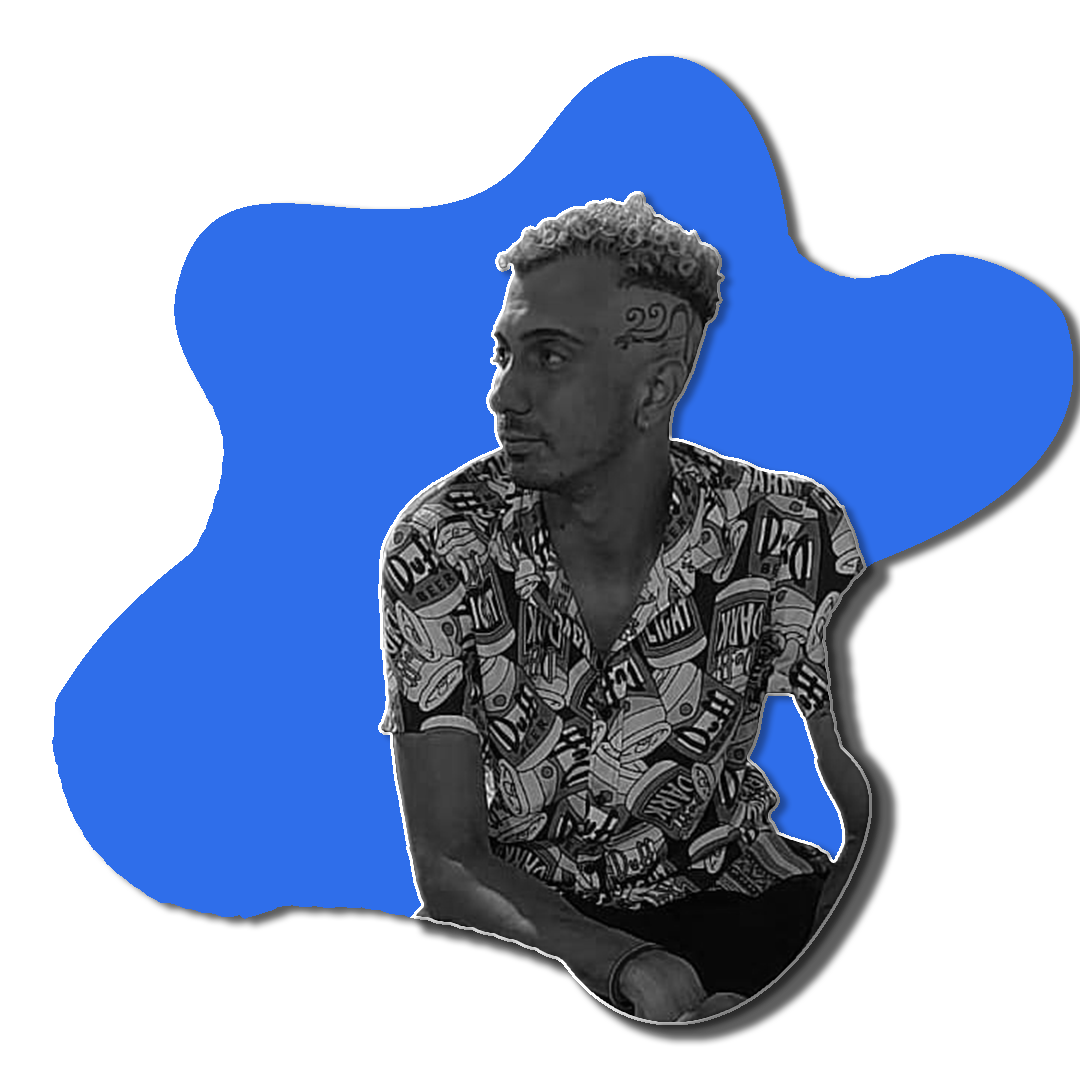
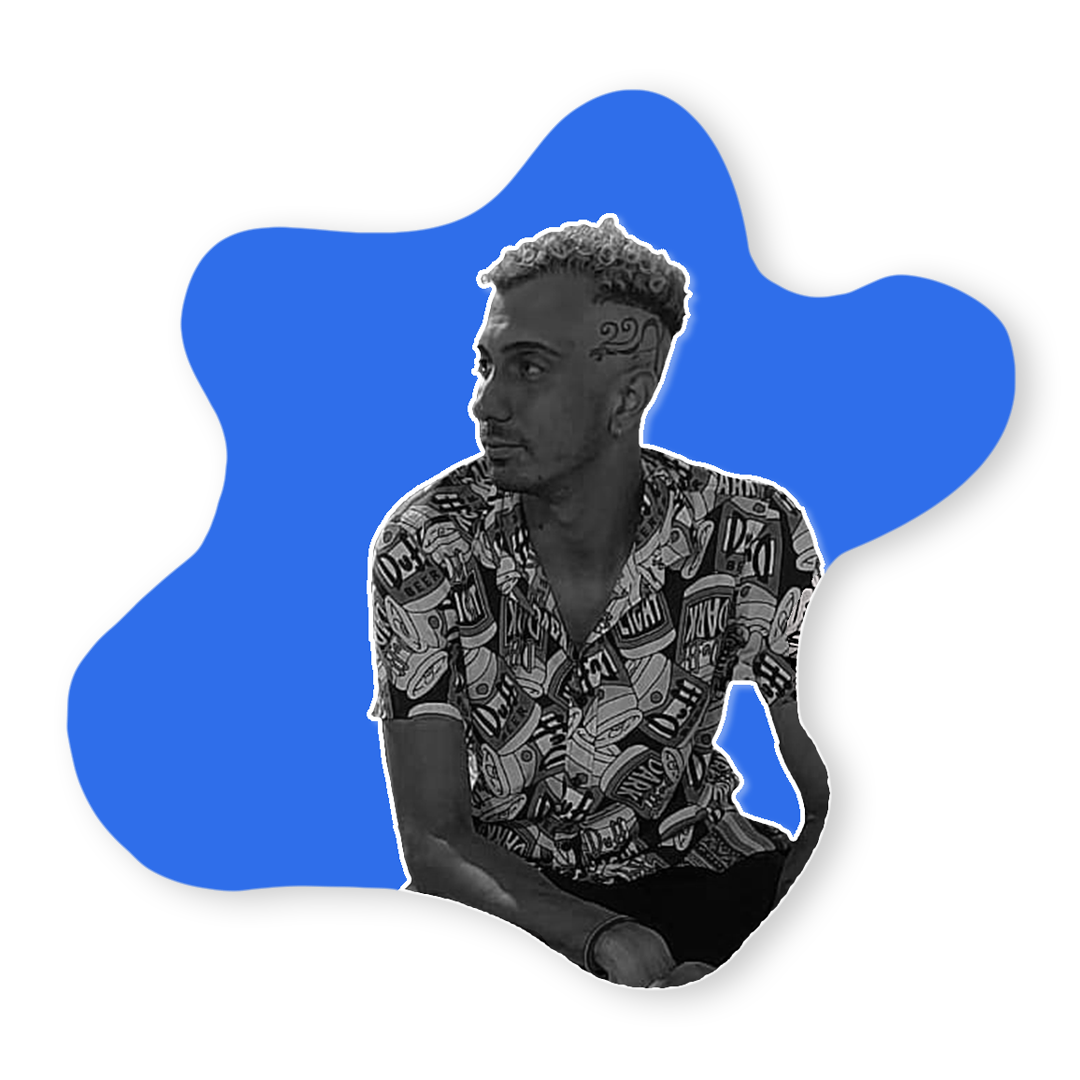
novos ajustes de responsividade, fotos e paginas

diff --git a/src/components/header.tsx b/src/components/header.tsx
@@ -20,7 +20,7 @@ export function Header() {
         
             <div 
                 className="
-                    flex flex-row bg-zinc-200 items-center top-0 justify-between w-full shadow-lg
+                    flex flex-row bg-zinc-200 items-center top-0 justify-between w-full h-16 shadow-lg
                     xl:h-16 xl:px-16 xl:w-full
                     md:h-14 md:px-12
                     dark:bg-blue-900
@@ -30,9 +30,9 @@ export function Header() {
                         flex flex-row w-auto h-auto items-center justify-evenly
                         dark:text-white
                     ">
-                    <Link to={`/`} className="flex" >
+                    <Link to={`/`} className="flex items-center" >
                         <Rocket className="
-                                    flex hover:animate-spin -ml-14
+                                    flex hover:animate-spin ml-3
                                     xl:mx-2
                                     md:mx-4
                                     " 
@@ -40,47 +40,47 @@ export function Header() {
                         <a className="
                             hidden
                             xl:flex xl:text-justify xl:cursor-pointer xl:text-2xl xl:mt-1 xl:text-black xl:hover:text-black/80 xl:hover:animate-pulse
-                            md:flex md:text-justify md:cursor-pointer md:text-2xl md:mt-1 md:text-black md:hover:text-black/80 md:hover:animate-pulse
+                            md:flex md:text-justify md:cursor-pointer md:text-xl md:mt-1 md:text-black md:hover:text-black/80 md:hover:animate-pulse
                             "> Ícaro Sperandio
                         </a>
                     </Link>
                 </div>
                 
-                <div className="flex flex-row dark:text-white">
+                <div className="flex flex-row dark:text-white ml-1 right-0">
                     <div className="
-                            flex w-full mr-10
-                            xl:relative xl:flex xl:flex-row xl:w-auto xl:h-auto xl:items-center xl:content-center xl:justify-center
-                            md:m-0 md:right-0 md:justify-end md:items-center md:content-center md:flex-row md:w-auto md:h-auto md:ml-0
+                            flex 
+                            xl:relative xl:flex xl:flex-row xl:w-auto xl:h-auto xl:items-center xl:content-center xl:justify-center xl:
+                            md:m-0 md:right-0 md:justify-end md:items-center md:content-center md:flex-row md:w-auto md:h-auto md:ml-0 md:mr-10  md:text-xl
                         ">
-                        <button className="relative flex box-content w-auto h-0 border-none m-5 items-center content-center justify-center p-1 cursor-pointer">
+                        <button className="relative flex box-content w-auto h-0 border-none my-5 mx-2 items-center content-center justify-center p-1 cursor-pointer">
                             <Link to={`/sobre`} >
-                                <p className=" lg:font-normal font-bold text-2xl text-black content-end hover:text-cyan-600 hover:animate-pulse">
+                                <p className=" text-2xl text-black content-end hover:text-cyan-600 hover:animate-pulse">
                                     sobre
                                 </p>
                             </Link>
                         </button>
-                        <button className="relative flex box-content w-auto h-0 border-none m-5 items-center content-center justify-center p-1 cursor-pointer">
+                        <button className="relative flex box-content w-auto h-0 border-none my-5 mx-2 items-center content-center justify-center p-1 cursor-pointer">
                             <Link to={`/skills`} >
-                                <p className=" lg:font-normal font-bold text-2xl text-black content-end hover:text-cyan-600 hover:animate-pulse">
+                                <p className=" text-2xl text-black content-end hover:text-cyan-600 hover:animate-pulse">
                                     skills
                                 </p>
                             </Link>
                         </button>
-                        <button className="relative flex box-content w-auto h-0 border-none m-1 items-center content-center justify-center p-1 cursor-pointer">
+                        <button className="relative flex box-content w-auto h-0 border-none my-5 mx-2 items-center content-center justify-center p-1 cursor-pointer">
                             <Link to={`/projetos`} >
-                                <p className=" lg:font-normal font-bold text-2xl text-black content-end hover:text-cyan-600 hover:animate-pulse">
+                                <p className=" text-2xl text-black content-end hover:text-cyan-600 hover:animate-pulse">
                                     repositório
                                 </p>
                             </Link>
                         </button>
                     </div>
-                    <div className="flex w-auto ml-10 justify-center items-center dark:text-white"
+                    {/* <div className="flex w-auto ml-10 justify-center items-center dark:text-white"
                         onClick={e => toggleTheme(e)}>
                         <div
                         className="hover:animate-spin transition duration-700 cursor-pointer -mr-8 ">
                             {dark  ? <Sun size={32} /> : <Moon size={32} />}
                         </div>
-                    </div>
+                    </div> */}
                 </div>
             </div>
         

diff --git a/src/components/cafezinho.tsx b/src/components/cafezinho.tsx
@@ -1,30 +1,36 @@
-import { Coffee } from "phosphor-react";
+import { Coffee, X } from "phosphor-react";
 import { useState } from "react";
 import qrCode from "../assets/extras/QRCode.png"
 
 
 export function Cafezinho() {
-    const [open, setOpen] = useState(false)
-    const showCard = () => setOpen(!open)
-
     const [modal, setModal] = useState(false)
     const showModal = () => setModal(!modal)
 
     function ModalPix() {
         return (
-            <div className="fixed left-1/3 top-1/3 bg-blitz bg-cover flex-col justify-center items-center w-1/3 h-1/2 p-6 border-solid border-blue-600 border-2 rounded-md shadow-xl cursor-pointer">
+            <div className="
+            fixed z-50 left-6 top-28 bg-blitz bg-cover flex-col justify-center items-center w-10/12 h-auto p-6 border-solid border-blue-600 border-2 rounded-md shadow-xl
+            md:w-3/4 md:h-auto md:top-1/4 md:left-28
+            xl:w-1/2 xl:h-auto xl:top-1/4 xl:left-1/4
+            2xl:w-2/4 2xl:h-1/2 2xl:top-1/4 2xl:left-[22%]
+            ">
+                <X className="absolute right-3 top-3 cursor-pointer" onClick={showModal} size={32} />
                 <div className="flex flex-col items-center justify-center w-11/12">
                         <p className="text-base font-bold text-left bg-white/80 text-black"> Este site/portifólio esta sendo meu primeiro trabalho publicado e hospedado, foi um grande desafio, demorei mas finalizei!! </p>
                         <p className="text-base font-bold text-left bg-white/80 text-black"> Entrando em contato por minhas redes sociais, vou aceitar dicas, feedbacks até mesmo criticas! e caso queira colaborar com o famoso cafezinho do DEV, so utilizar o QRcode abaixo ou copiar a chave aleatória! </p>
                         <p className="text-base font-bold text-left bg-white/80 text-black"> Desde já agradeço a atenção e colaboração!!!! </p>
                 </div>
-                <div className="flex flex-rpl items-center justify-evenly mt-4">
+                <div className="
+                flex items-center flex-col justify-evenly mt-4
+                md:flex-row xl:flex-row
+                ">
                     <div className="flex flex-col items-center justify-center">
                         <img src={qrCode} alt="QR Code Pix" className="flex self-center w-52 h-52" />
                     </div>
                     <div className="flex flex-row items-center justify-center bg-white border-solid border-blue-600 border-2 p-2 rounded-md">
                         <input type="text" id="pixKey" className=" hidden text-sm text-center bg-white text-black ml-1" value="beaf0f17-0c49-45bd-912d-59fa81f8debc" readOnly />
-                        <button className="text-sm text-center bg-white text-black ml-1" onClick={CopyText}> Copiar chave PIX </button>
+                        <button className="text-base text-center bg-white text-black ml-1 w-36 h-8" onClick={CopyText}> Copiar chave PIX </button>
                     </div>
                 </div>
             </div>            
@@ -43,15 +49,20 @@ export function Cafezinho() {
 
     return (
         <>
-            <div className="fixed flex-row w-14 h-14 rounded-lg right-2 top-24 hover:animate-pulse hover:cursor-help shadow-md">
+            <div className="fixed w-16 hover:w-96 h-16 rounded-full right-4 top-24 shadow-md text-transparent hover:text-black hover:duration-700 animate-pulse hover:animate-none">
 
-                <button 
-                className="flex w-full h-full z-10 rounded-lg bg-blue-600 text-white items-center justify-center hover:cursor-help"
-                onClick={showCard}
-                >
-                    <Coffee size={32} />
-                </button>
-                <nav className="flex w-auto z-20 -ml-72 pr-12 -mt-14 select-none">
+                <div className="flex flex-row-reverse items-center  rounded-full shadow-xl bg-emerald-500 w-16 hover:w-96 h-16 p-0">
+                    <div className="fixed w-16 h-16 bg-blue-600 rounded-full items-center justify-center p-3 shadow-xl hover:animate-none">
+                        <Coffee className="flex text-white self-center h-auto" size={39} />
+                    </div>
+                    <div className='h-16 w-full rounded-full bg-emerald-500 justify-center items-center flex hover:cursor-pointer'
+                        onClick={showModal}>
+                        <div className=" flex">
+                            <strong className="text-sm -ml-4  mr-4 w-80"> Se você gostou do meu trabalho,<br />considere me pagar um cafézinho. Obrigado! </strong>
+                        </div>
+                    </div>
+                </div>
+                {/* <nav className="flex w-auto z-20 -ml-72 pr-12 -mt-14 select-none">
                     {open && (
                         <div 
                         className="flex  w-auto h-14 bg-blue-600 rounded-lg rounded-tr-none rounded-br-none  flex-col justify-center items-center"
@@ -60,7 +71,7 @@ export function Cafezinho() {
                             <p className="text-sm text-black ml-1"> Se você gostou do meu trabalho, considere me pagar um cafézinho. Obrigado! </p>
                         </div>
                     )}
-                </nav>
+                </nav> */}
 
             </div>
             {modal && <ModalPix />}

diff --git a/src/components/mainHome.tsx b/src/components/mainHome.tsx
@@ -14,7 +14,7 @@ export function Main() {
                     flex flex-col-reverse w-full max-h-min items-center
                     xl:flex-row xl:mt-14 xl:justify-around xl:p-6 xl:-ml-4
                     lg:flex-row lg:mt-12 lg:justify-around lg:p-6 lg:-ml-4
-                    md:flex-row md:justify-around md:mt-10 
+                    md:flex-row md:justify-around md:mt-10
                     ">
         
                 <div className="
@@ -54,14 +54,15 @@ export function Main() {
                     </p>
 
                     <div className="
-                            max-w-min h-auto flex flex-row content-between items-center left-0
-                            xl:mr-0 xl:ml-4 xl:min-w-max xl:-mt-4
-                            lg:mr-0 lg:ml-4 lg:min-w-max
-                            md:mr-0 md:ml-4 md:min-w-max
+                            max-w-min h-auto flex flex-row justify-between items-center left-0 p-0
+                            xl:mr-0  xl:w-full xl:-mt-4
+                            lg:mr-0  lg:w-full
+                            md:mr-0  md:w-full
                         ">
 
                         <button className="
-                                    flex w-44 h-14 border-2 border-solid border-white rounded-lg pb-16 mt-8 cursor-pointer justify-center shadow-xl  shadow-gray-700/50 bg-gradient-to-br from-blue-700 to-blue-500 mx-2 hover:animate-pulse
+                                    flex w-48 h-14 border-2 border-solid border-white rounded-lg pb-16 mt-8 cursor-pointer justify-center shadow-xl  shadow-gray-700/50 bg-gradient-to-br from-blue-700 to-blue-500 mx-1 hover:animate-pulse
+                                    
                                     dark:bg-gradient-to-br dark:from-gray-700 dark:to-gray-500 dark:shadow--100/50
                                 " >
                             <a href="https://cdn2.hubspot.net/hubfs/22201216/CV%20Icaro%20Sperandio.pdf" download="CV Icaro Sperandio" target="_blank" rel="noreferrer">
@@ -71,11 +72,13 @@ export function Main() {
                             </a>
                         </button>
 
-                        <button className="relative flex w-44 h-14 border-2 border-solid border-white rounded-lg pb-16 mt-8 cursor-pointer justify-center shadow-xl shadow-gray-700/50 bg-gradient-to-bl from-green-700 to-emerald-500 mx-2 hover:animate-pulse
-                        dark:bg-gradient-to-bl dark:from-gray-700 dark:to-gray-500 dark:shadow--100/50
+                        <button className="
+                                flex w-48 h-14 border-2 border-solid border-white rounded-lg pb-16 mt-8 cursor-pointer justify-center shadow-xl shadow-gray-700/50 bg-gradient-to-bl from-green-700 to-emerald-500 mx-1 hover:animate-pulse
+                                md:-mr-44
+                                dark:bg-gradient-to-bl dark:from-gray-700 dark:to-gray-500 dark:shadow--100/50
                         " >
                             <a href="https://wa.me/5527996561579" target='_blank'>
-                                <p className="font-mono font-bold text-xl text-center text-slate-200 mt-4">
+                                <p className="font-mono font-bold text-xl text-center text-slate-200 mt-4  ">
                                     Chama no <WhatsappLogo className="inline" size={32} />
                                 </p>
                             </a>
@@ -90,8 +93,8 @@ export function Main() {
                  ">
                     
                     <img className="
-                            flex w-72 h-auto mt-4 
-                            xl:flex xl:w-[680px] xl:h-auto xl:m-1
+                            flex w-80 h-auto mt-4 -mb-8 ml-4 
+                            xl:flex xl:w-[700px] xl:h-auto xl:m-1
                             lg:flex lg:w-[400px] lg:h-[400px] lg:m-12
                             md:w-72 md:h-72 
                             "

diff --git a/index.html b/index.html
@@ -2,17 +2,23 @@
 <html lang="pt-br">
   <head>
     <meta charset="UTF-8" />
-    <link rel="icon" type="image/svg+xml" href="/vite.svg" />
+    <link rel="icon" type="image/svg+xml" href="/ghost.svg" />
     <meta name="viewport" content="width=device-width, initial-scale=1.0" />
+
     <!-- <link href="/dist/output.css" rel="stylesheet"> -->
-    <link rel="preconnect" href="https://fonts.googleapis.com">
+
+    <link rel="preconnect" href="https://fonts.googleapis.com" />
     <link rel="preconnect" href="https://fonts.gstatic.com" crossorigin />
-    <link rel="preconnect" href="https://fonts.googleapis.com">
-    <link rel="preconnect" href="https://fonts.gstatic.com" crossorigin>
-    <link href="https://fonts.googleapis.com/css2?family=Inconsolata:wght@200;300;400;600&family=Rampart+One&family=Roboto:wght@300;400;700&display=swap" rel="stylesheet">
+    <link rel="preconnect" href="https://fonts.googleapis.com" />
+    <link rel="preconnect" href="https://fonts.gstatic.com" crossorigin />
+    <link href="https://fonts.googleapis.com/css2?family=Inconsolata:wght@200;300;400;600&family=Rampart+One&family=Roboto:wght@300;400;700&display=swap" rel="stylesheet" />
+
     <title>Sperandio's portifolium</title>
+
     <!-- <canvas id='canv'></canvas> -->
+
   </head>
+
   <body>
     <div id="root"></div>
     <script type="module" src="/src/main.tsx"></script>

diff --git a/src/components/socialBar.tsx b/src/components/socialBar.tsx
@@ -3,10 +3,10 @@ import { EnvelopeOpen, GithubLogo, InstagramLogo, LinkedinLogo, TwitterLogo } fr
 export function SocialBar() {
     return (
         <div className="
-                flex relative flex-row ml-16 mt-10 bottom-0 w-auto h-auto 
-                xl:fixed xl:flex-col xl:ml-8 xl:top-80 
-                lg:fixed lg:flex-col lg:ml-2 lg:top-60
-                md:fixed md:flex-col md:ml-0 md:top-36 
+                flex relative flex-row mt-16 bottom-1 w-full h-auto justify-evenly
+                xl:fixed xl:flex-col xl:ml-4 xl:top-10 xl:w-auto  
+                lg:fixed lg:flex-col lg:ml-2 lg:top-8 lg:w-auto 
+                md:fixed md:flex-col md:ml-0 md:top-6  md-w-auto
                 ">
             <a className="flex w-10 text-black relative m-1 hover:text-cyan-600 hover:animate-bounce"
                 href="https://twitter.com/SperandioIcaro" target='_blank'>

diff --git a/src/lib/CardApi.tsx b/src/lib/CardApi.tsx
@@ -58,7 +58,7 @@ export default function CardApi(post: Data) {
 
   return (
     <a href={post.html_url} target='_blank' rel='noreferrer'>            
-        <div className='flex flex-col w-full h-44 justify-between p-4 my-4 bg-white rounded-lg shadow-lg'>
+        <div className='flex flex-col w-full h-44 justify-between p-4 my-4 bg-white rounded-lg shadow-lg border-solid border-blue-600 border'>
             <ul className="flex flex-col justify-between w-full h-full">
                 <li key={post.name} className="flex flex-col w-full h-full">
                     <div className="flex flex-row justify-between w-full h-1/3 items-start ">

diff --git a/src/components/CardProjectApi.tsx b/src/components/CardProjectApi.tsx
@@ -37,7 +37,11 @@ export function CardProjectApi( ) {
             <h1 className='text-4xl text-center font-Press text-black mb-4'>
               Meus Projetos
             </h1>
-            <div className='grid grid-flow-row gap-3 grid-cols-4 px-20'>
+            <div className='
+                grid  gap-1 grid-cols-1 px-2
+                md:grid-cols-2 md:gap-2 md:px-10
+                xl:grid-cols-3 xl:gap-3 xl:px-20
+                '>
                 
                 {loading && <p className='text-xl text-center'>Loading...</p>}
                 {error && <p>{error}</p>}

diff --git a/src/components/cardSkill.tsx b/src/components/cardSkill.tsx
@@ -20,7 +20,7 @@ export function CardSkill(props: Props) {
                 <img src={props.image} className="self-center h-auto w-24"/>
             </div>
             <div className='
-                lg:flex lg:w-8 h-auto rounded-xl bg-zinc-300 justify-center items-center lg:hover:w-72 lg:hover:ease-linear lg:hover:duration-200 lg:hover:text-black 
+                lg:flex lg:w-8 h-auto rounded-xl bg-zinc-300 justify-center items-center lg:hover:w-72 lg:hover:ease-linear lg:hover:duration-200 lg:hover:text-black hover:z-20
                 hidden
                 '>
 

diff --git a/src/lib/BoxText.tsx b/src/lib/BoxText.tsx
@@ -9,7 +9,7 @@ export default function BoxText(props: Props) {
     return (
         <div className="
             flex flex-col h-full self-center justify-center cursor-default border-solid border-black border rounded-xl shadow-lg bg-zinc-100 w-11/12 mt-12 ml-4 p-5 mb-12
-            xl:mb-10 xl:ml-28 xl:p-10 xl:mt-16
+            xl:mb-10 xl:ml-20 xl:p-10 xl:mt-14
             lg:mb-10 lg:ml-16 lg:p-6 lg:mt-14
             md:mb-10 md:ml-12 md:p-5 md:mt-12
         ">

diff --git a/src/lib/BoxSkill.tsx b/src/lib/BoxSkill.tsx
@@ -19,7 +19,7 @@ export default function BoxSkill(props: PropsSkill) {
                     {props.title}
                 </h3>
                 <div className="
-                    grid grid-flow-col gap-1 grid-rows-2 
+                    grid grid-flow-col gap-1 grid-cols-4 grid-rows-2 
                     xl:grid-rows xl:grid-cols xl:gap-1
                     lg:grid-rows lg:grid-cols lg:gap-1
                     md:grid-rows md:grid-cols md:gap-1 md:h-60

diff --git a/src/App.tsx b/src/App.tsx
@@ -10,9 +10,9 @@ function App() {
   return(
     <ApolloProvider client={client}>
       <BrowserRouter>
-          <Cafezinho />
+        <Cafezinho />
         <Header />
-          <Router />
+        <Router />
         <SocialBar />
       </BrowserRouter>
     </ApolloProvider>
